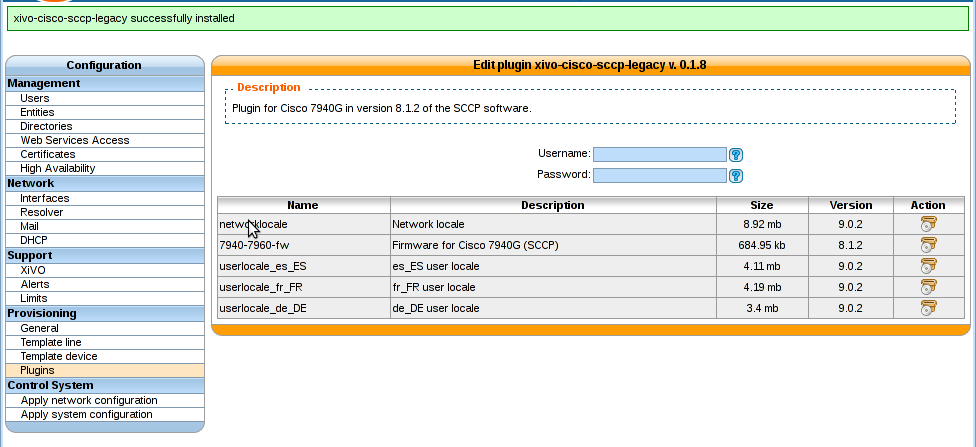
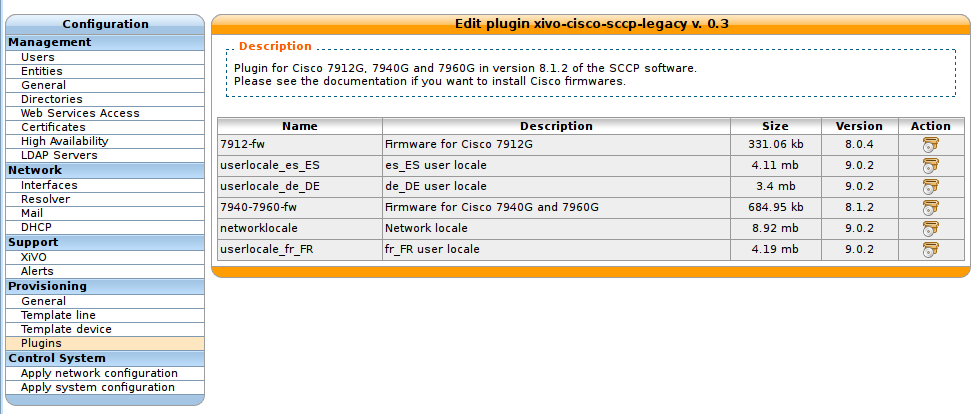
[#3804] Adjust SCCP firmware installation information.

diff --git a/source/administration/sccp/sccp.rst b/source/administration/sccp/sccp.rst
@@ -27,7 +27,7 @@ Review SCCP general settings:
    You must `reload the chan_sccp module`_ for the settings to be applied.
 
 At this point you should have a fully functional DHCP server that provides IP address to your phones.
-Depending on what type of CISCO phone you have, you need to install the plugin sccp-legacy, sccp-9.2.1 or both.
+Depending on what type of CISCO phone you have, you need to install the plugin sccp-legacy, sccp-9.2.1 or both. Please refer to the :ref:`Provisionning page <cisco-provisioning>` for more information on how to install CISCO firmwares.
 
 Once your plugin is installed, you'll be able to edit which firmwares and locales you need.
 If you are unsure, you can choose all without any problem.

diff --git a/source/administration/provisioning/devices.rst b/source/administration/provisioning/devices.rst
@@ -63,8 +63,10 @@ Model    Tested [1]_ Fkeys [2]_ XiVO HA [3]_
 ======== =========== ========== ============
 
 
+
 Cisco
 =====
+
 
 Cisco Small Business SPA300 series:
 
@@ -141,6 +143,8 @@ Model    Tested [1]_ Fkeys [2]_ XiVO HA [3]_
 7960G    |y|         0          |n|
 7961G    |y|         0          |n|
 ======== =========== ========== ============
+
+.. _cisco-provisioning:
 
 To install firmware for xivo-cisco-sccp plugins, you need to manually download
 the firmware files from the Cisco website and save them in the
